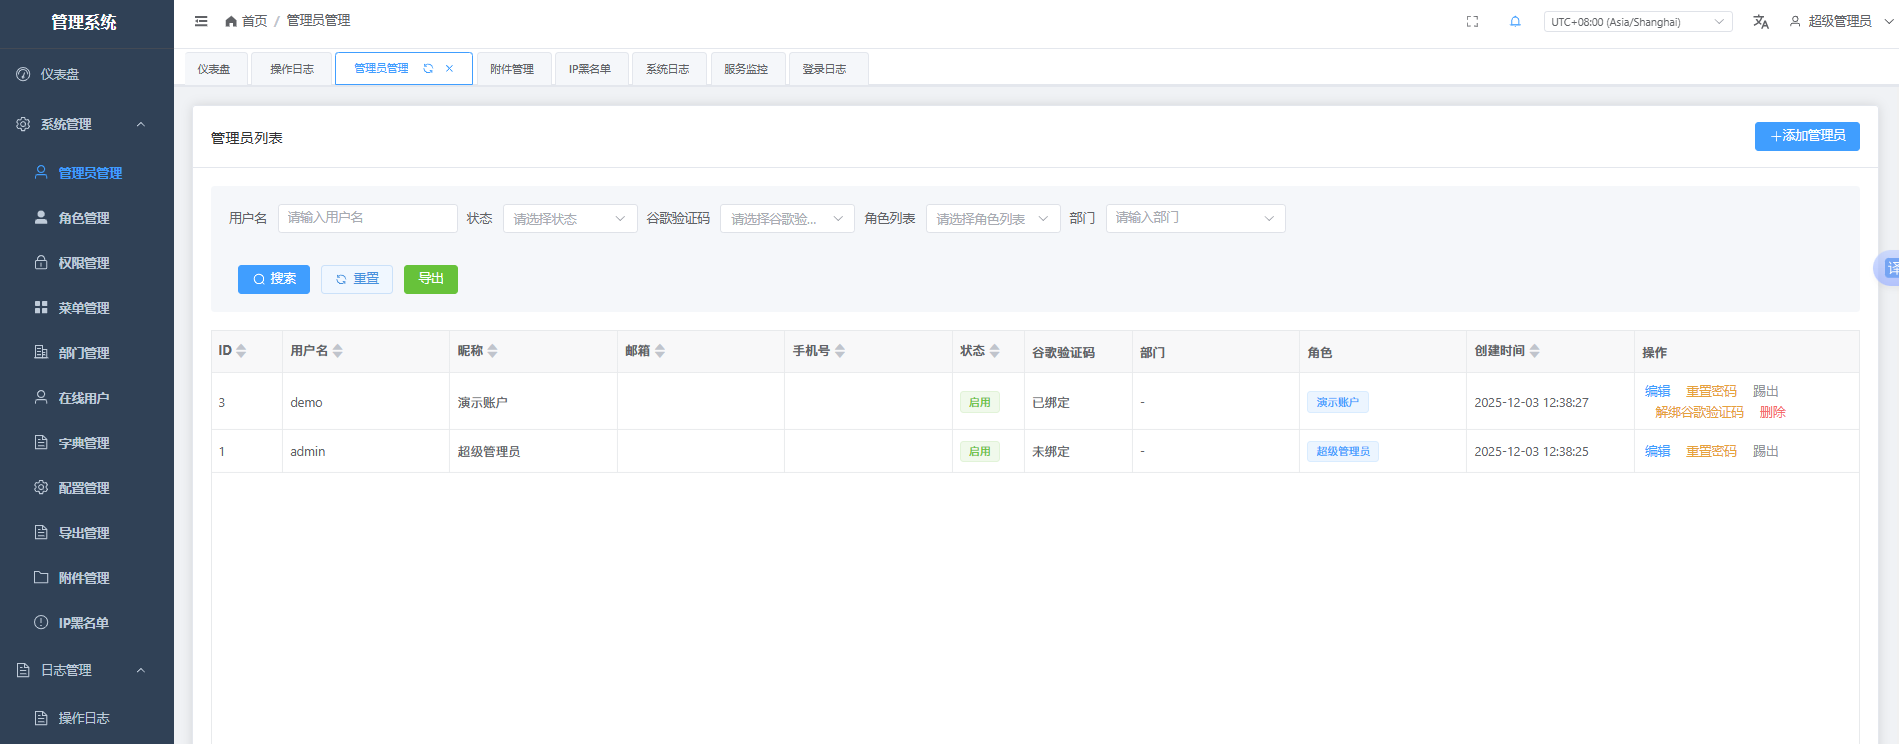
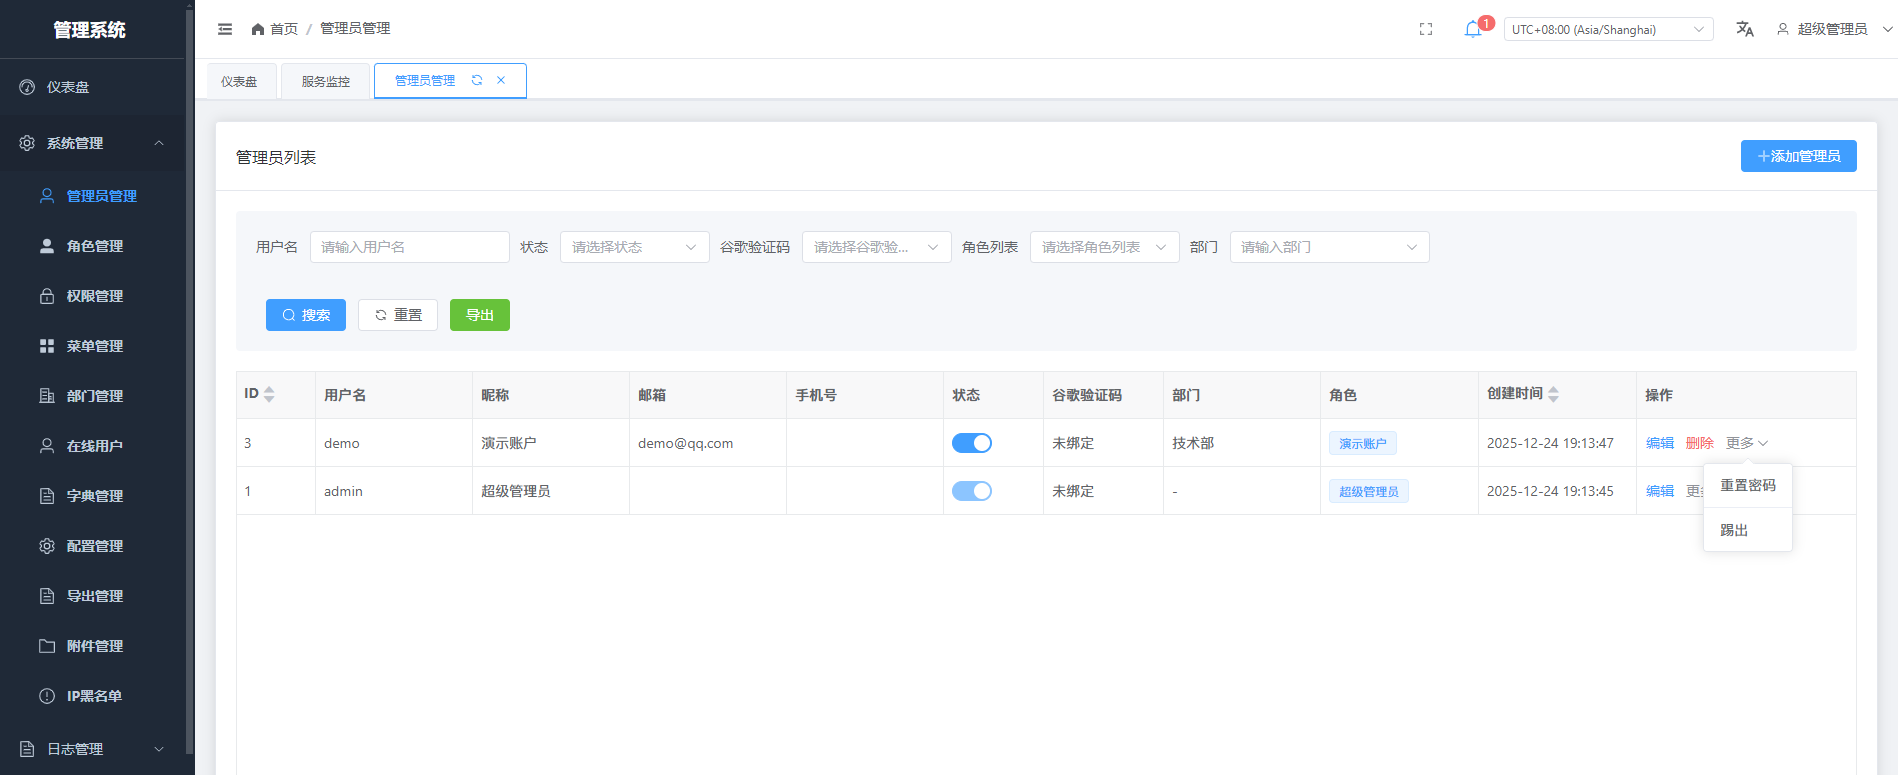
优化

diff --git a/html/src/views/attachment/AttachmentList.vue b/html/src/views/attachment/AttachmentList.vue
@@ -209,6 +209,7 @@ import SearchForm from '../../components/SearchForm.vue'
 import Pagination from '../../components/Pagination.vue'
 import { useListPage } from '../../composables/useListPage'
 import { usePermission } from '../../composables/usePermission'
+import { useCrud } from '../../composables/useCrud'
 import axios from 'axios'
 import { 
   getAttachmentList, 
@@ -226,6 +227,12 @@ import Storage from '../../utils/storage'
 
 const { t, locale } = useI18n()
 const { getButtonState } = usePermission()
+
+// 使用 CRUD composable
+const { handleDelete: handleDeleteCrud, handleBatchDelete: handleBatchDeleteCrud } = useCrud({
+  deleteApi: deleteAttachment,
+  batchDeleteApi: batchDeleteAttachments
+})
 
 const tableRef = ref(null)
 const uploadRef = ref(null)
@@ -940,53 +947,17 @@ const handleDownload = async (row) => {
   }
 }
 
-const handleDelete = async (row) => {
-  try {
-    await ElMessageBox.confirm(t('attachment.delete_confirm'), t('form.tip'), {
-      confirmButtonText: t('common.confirm'),
-      cancelButtonText: t('common.cancel'),
-      type: 'warning'
-    })
-    await deleteAttachment(row.id || row.ID)
-    ElMessage.success(t('attachment.delete_success'))
-    loadData()
-  } catch (error) {
-    if (error !== 'cancel') {
-      console.error('Delete attachment error:', error)
-    }
-  }
-}
+const handleDelete = (row) => handleDeleteCrud(row, loadData)
 
 const handleSelectionChange = () => {
   selectedRows.value = tableRef.value?.getCheckboxRecords() || []
 }
 
-const handleBatchDelete = async () => {
-  if (selectedRows.value.length === 0) {
-    ElMessage.warning(t('common.please_select_items'))
-    return
-  }
-
-  try {
-    await ElMessageBox.confirm(
-      t('attachment.batch_delete_confirm', { count: selectedRows.value.length }), 
-      t('form.tip'), 
-      {
-        confirmButtonText: t('common.confirm'),
-        cancelButtonText: t('common.cancel'),
-        type: 'warning'
-      }
-    )
-    const ids = selectedRows.value.map(row => row.id || row.ID)
-    await batchDeleteAttachments(ids)
-    ElMessage.success(t('attachment.delete_success'))
+const handleBatchDelete = () => {
+  handleBatchDeleteCrud(selectedRows.value, () => {
     selectedRows.value = []
     loadData()
-  } catch (error) {
-    if (error !== 'cancel') {
-      console.error('Batch delete error:', error)
-    }
-  }
+  })
 }
 
 onMounted(() => {

diff --git a/html/src/views/role/RoleList.vue b/html/src/views/role/RoleList.vue
@@ -197,6 +197,7 @@ import SearchForm from '../../components/SearchForm.vue'
 import Pagination from '../../components/Pagination.vue'
 import { useTableSort } from '../../composables/useTableSort'
 import { usePermission } from '../../composables/usePermission'
+import { useCrud } from '../../composables/useCrud'
 import { getMenuTranslation } from '../../utils/menuTranslation'
 import { getRoleList, getRoleDetail, createRole, updateRole, deleteRole } from '../../api/role'
 import { getPermissionList } from '../../api/permission'
@@ -218,6 +219,12 @@ const menuPermissionTreeRef = ref(null)
 const loading = ref(false)
 const formLoading = ref(false)
 const submitting = ref(false)
+
+// 使用 CRUD composable（只用删除功能，因为角色有自定义对话框）
+const { handleDelete: handleDeleteCrud } = useCrud({
+  deleteApi: deleteRole
+})
+
 const dialogVisible = ref(false)
 const dialogTitle = computed(() => formData.id ? t('role.edit_role') : t('role.add_role'))
 
@@ -1120,31 +1127,12 @@ const handleStatusChange = async (row, newStatus) => {
   }
 }
 
-const handleDelete = async (row) => {
+const handleDelete = (row) => {
   if (isProtectedRole(row)) {
     ElMessage.warning(t('role.protected_cannot_delete'))
     return
   }
-  
-  try {
-    await ElMessageBox.confirm(t('role.delete_confirm'), t('form.tip'), {
-      confirmButtonText: t('common.confirm'),
-      cancelButtonText: t('common.cancel'),
-      type: 'warning'
-    })
-    await deleteRole(row.id)
-    ElMessage.success(t('role.delete_success'))
-    loadData()
-  } catch (error) {
-    if (error !== 'cancel') {
-      console.error('Delete error:', error)
-      // 如果错误已经在响应拦截器中处理过，就不再重复显示
-      if (!error.__handled) {
-        const errorMessage = error.response?.data?.message || error.message || t('common.operation_failed')
-        ElMessage.error(errorMessage)
-      }
-    }
-  }
+  handleDeleteCrud(row, loadData)
 }
 
 onMounted(async () => {

diff --git a/html/src/views/permission/PermissionList.vue b/html/src/views/permission/PermissionList.vue
@@ -107,6 +107,7 @@ import Pagination from '../../components/Pagination.vue'
 import PermissionForm from './PermissionForm.vue'
 import { useListPage } from '../../composables/useListPage'
 import { usePermission } from '../../composables/usePermission'
+import { useCrud } from '../../composables/useCrud'
 import { getMenuTitle as getMenuTitleUtil } from '../../utils/menuTranslation'
 import {
   getPermissionList,
@@ -117,8 +118,16 @@ import { getMenuList } from '../../api/menu'
 const { t, te } = useI18n()
 const { getButtonState } = usePermission()
 const tableRef = ref(null)
-const dialogVisible = ref(false)
-const editId = ref(null)
+
+// 使用 CRUD composable
+const {
+  dialogVisible,
+  editId,
+  handleAdd,
+  handleDelete: handleDeleteCrud
+} = useCrud({
+  deleteApi: deletePermission
+})
 
 // 字段名映射
 const fieldMapping = {
@@ -366,11 +375,7 @@ const getMenuDisplayTitle = (menu) => {
 }
 
 // loadData, handleSearch, handleReset, handlePageChange 已由 useListPage 提供
-
-const handleAdd = () => {
-  editId.value = null
-  dialogVisible.value = true
-}
+// handleAdd, handleDelete 已由 useCrud 提供
 
 const handleEdit = (row) => {
   editId.value = row.id
@@ -381,22 +386,7 @@ const handleFormSuccess = () => {
   loadData()
 }
 
-const handleDelete = async (row) => {
-  try {
-    await ElMessageBox.confirm(t('permission.delete_confirm'), t('form.tip'), {
-      confirmButtonText: t('common.confirm'),
-      cancelButtonText: t('common.cancel'),
-      type: 'warning'
-    })
-    await deletePermission(row.id)
-    ElMessage.success(t('permission.delete_success'))
-    loadData()
-  } catch (error) {
-    if (error !== 'cancel') {
-      console.error('Delete error:', error)
-    }
-  }
-}
+const handleDelete = (row) => handleDeleteCrud(row, loadData)
 
 onMounted(() => {
   initDefaultSort()

diff --git a/html/src/views/dictionary/DictionaryList.vue b/html/src/views/dictionary/DictionaryList.vue
@@ -106,6 +106,7 @@ import TableActionButtons from '../../components/TableActionButtons.vue'
 import DictionaryForm from './DictionaryForm.vue'
 import { useTableSort } from '../../composables/useTableSort'
 import { usePermission } from '../../composables/usePermission'
+import { useCrud } from '../../composables/useCrud'
 import {
   getDictionaryList,
   deleteDictionary
@@ -115,8 +116,16 @@ const { t } = useI18n()
 const { getButtonState } = usePermission()
 const tableRef = ref(null)
 const loading = ref(false)
-const dialogVisible = ref(false)
-const editId = ref(null)
+
+// 使用 CRUD composable
+const {
+  dialogVisible,
+  editId,
+  handleAdd,
+  handleDelete: handleDeleteCrud
+} = useCrud({
+  deleteApi: deleteDictionary
+})
 
 const searchForm = reactive({
   type: ''
@@ -260,11 +269,6 @@ const handlePageChange = ({ currentPage, pageSize }) => {
   loadData()
 }
 
-const handleAdd = () => {
-  editId.value = null
-  dialogVisible.value = true
-}
-
 const handleEdit = (row) => {
   editId.value = row.id
   dialogVisible.value = true
@@ -274,22 +278,7 @@ const handleFormSuccess = () => {
   loadData()
 }
 
-const handleDelete = async (row) => {
-  try {
-    await ElMessageBox.confirm(t('dictionary.delete_confirm'), t('form.tip'), {
-      confirmButtonText: t('common.confirm'),
-      cancelButtonText: t('common.cancel'),
-      type: 'warning'
-    })
-    await deleteDictionary(row.id)
-    ElMessage.success(t('dictionary.delete_success'))
-    loadData()
-  } catch (error) {
-    if (error !== 'cancel') {
-      console.error('Delete error:', error)
-    }
-  }
-}
+const handleDelete = (row) => handleDeleteCrud(row, loadData)
 
 onMounted(() => {
   initDefaultSort()

diff --git a/html/src/views/department/DepartmentList.vue b/html/src/views/department/DepartmentList.vue
@@ -94,6 +94,7 @@ import { Plus } from '@element-plus/icons-vue'
 import SearchForm from '../../components/SearchForm.vue'
 import DepartmentForm from './DepartmentForm.vue'
 import { usePermission } from '../../composables/usePermission'
+import { useCrud } from '../../composables/useCrud'
 import {
   getDepartmentList,
   deleteDepartment
@@ -102,8 +103,16 @@ import {
 const { t } = useI18n()
 const { getButtonState } = usePermission()
 const loading = ref(false)
-const dialogVisible = ref(false)
-const editId = ref(null)
+
+// 使用 CRUD composable
+const {
+  dialogVisible,
+  editId,
+  handleAdd,
+  handleDelete: handleDeleteCrud
+} = useCrud({
+  deleteApi: deleteDepartment
+})
 
 const tableData = ref([])
 const hasSearch = ref(false) // 标记是否有搜索条件
@@ -263,11 +272,6 @@ const handleReset = () => {
   loadData()
 }
 
-const handleAdd = () => {
-  editId.value = null
-  dialogVisible.value = true
-}
-
 const handleEdit = (row) => {
   editId.value = row.id
   dialogVisible.value = true
@@ -277,22 +281,7 @@ const handleFormSuccess = () => {
   loadData()
 }
 
-const handleDelete = async (row) => {
-  try {
-    await ElMessageBox.confirm(t('department.delete_confirm'), t('form.tip'), {
-      confirmButtonText: t('common.confirm'),
-      cancelButtonText: t('common.cancel'),
-      type: 'warning'
-    })
-    await deleteDepartment(row.id)
-    ElMessage.success(t('department.delete_success'))
-    loadData()
-  } catch (error) {
-    if (error !== 'cancel') {
-      console.error('Delete error:', error)
-    }
-  }
-}
+const handleDelete = (row) => handleDeleteCrud(row, loadData)
 
 onMounted(() => {
   loadData()

diff --git a/html/src/views/menu/MenuList.vue b/html/src/views/menu/MenuList.vue
@@ -116,14 +116,23 @@ import * as ElementPlusIconsVue from '@element-plus/icons-vue'
 import MenuForm from './MenuForm.vue'
 import { getMenuList, deleteMenu } from '../../api/menu'
 import { usePermission } from '../../composables/usePermission'
+import { useCrud } from '../../composables/useCrud'
 
 const { t } = useI18n()
 const { getButtonState } = usePermission()
 const tableRef = ref(null)
 const loading = ref(false)
-const dialogVisible = ref(false)
-const editId = ref(null)
 const isExpanded = ref(false)
+
+// 使用 CRUD composable
+const {
+  dialogVisible,
+  editId,
+  handleAdd,
+  handleDelete: handleDeleteCrud
+} = useCrud({
+  deleteApi: deleteMenu
+})
 
 const tableData = ref([])
 
@@ -221,11 +230,6 @@ const loadData = async () => {
   }
 }
 
-const handleAdd = () => {
-  editId.value = null
-  dialogVisible.value = true
-}
-
 const handleEdit = (row) => {
   editId.value = row.id
   dialogVisible.value = true
@@ -235,22 +239,7 @@ const handleFormSuccess = () => {
   loadData()
 }
 
-const handleDelete = async (row) => {
-  try {
-    await ElMessageBox.confirm(t('menu_management.delete_confirm'), t('form.tip'), {
-      confirmButtonText: t('common.confirm'),
-      cancelButtonText: t('common.cancel'),
-      type: 'warning'
-    })
-    await deleteMenu(row.id)
-    ElMessage.success(t('menu_management.delete_success'))
-    loadData()
-  } catch (error) {
-    if (error !== 'cancel') {
-      console.error('Delete error:', error)
-    }
-  }
-}
+const handleDelete = (row) => handleDeleteCrud(row, loadData)
 
 const handleRefresh = () => {
   loadData()
